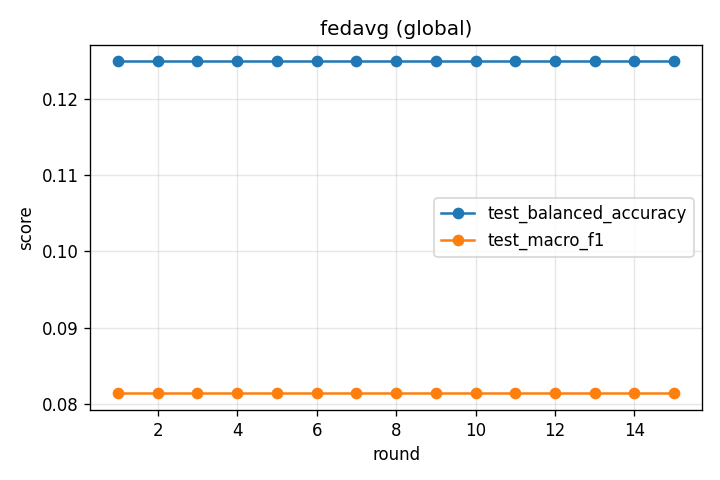
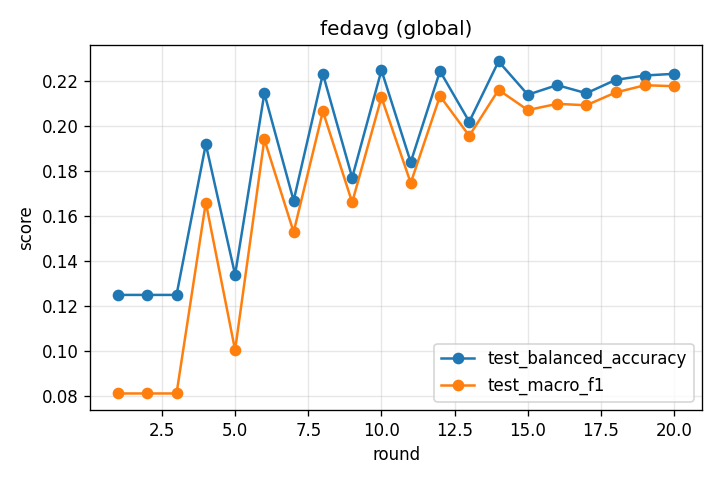
DP: BatchMemoryManager enables large-batch DP-SGD; learns to ~0.22 bal_acc

diff --git a/src/fl_med/engine/client.py b/src/fl_med/engine/client.py
@@ -2,7 +2,9 @@
 
 Decoupled from data acquisition -- it receives an already-built train loader, so
 the same client works with the real dataset, the fixture, or toy tensors in tests.
-Supports an optional local DP-SGD path (Opacus) selected by ``privacy_cfg``.
+Supports an optional local DP-SGD path (Opacus) selected by ``privacy_cfg``, using
+Opacus's BatchMemoryManager so a large logical batch (good signal-to-noise + valid
+accounting) is split into memory-safe physical micro-batches.
 """
 from __future__ import annotations
 
@@ -47,51 +49,59 @@ def local_train(
     criterion=None,
     privacy_cfg: Optional[Dict[str, Any]] = None,
 ) -> Dict[str, Any]:
-    """Train ``model`` locally and return an update dict for the server.
-
-    For SCAFFOLD, pass ``c_global``/``c_local`` (returned dict then also holds the new
-    control variate and (dy, dc) deltas). For DP, pass ``privacy_cfg`` with
-    ``{enabled, noise_multiplier, max_grad_norm}``.
-    """
+    """Train ``model`` locally and return an update dict for the server."""
     model.to(device)
     model.load_state_dict(global_state)
     optimizer = _build_optimizer(model, optimizer_cfg)
 
     dp_enabled = bool(privacy_cfg and privacy_cfg.get("enabled"))
-    grad_clip = GRAD_CLIP_NORM
     if dp_enabled:
         from ..privacy.dp_engine import fix_model, make_private
 
-        model = fix_model(model)                       # ensure DP-compatible norm (GroupNorm)
+        model = fix_model(model)                       # GroupNorm + no in-place ops
         model, optimizer, train_loader, _engine = make_private(
             model=model, optimizer=optimizer, data_loader=train_loader,
             noise_multiplier=float(privacy_cfg["noise_multiplier"]),
             max_grad_norm=float(privacy_cfg["max_grad_norm"]),
         )
-        grad_clip = None                               # Opacus does per-sample clipping
+        max_phys = int(privacy_cfg.get("max_physical_batch_size", 16))
 
     client_state = {"c_global": c_global, "c_local": c_local} if c_global is not None else None
 
+    # Logical optimizer steps per epoch (== accounting steps under Poisson sampling).
+    try:
+        steps_per_epoch = max_batches if max_batches is not None else len(train_loader)
+    except TypeError:
+        steps_per_epoch = max_batches or 1
+
     history = []
-    steps_per_epoch = max_batches if max_batches is not None else len(train_loader)
     for epoch in range(1, local_epochs + 1):
-        m = train_one_epoch(
-            model, train_loader, optimizer, device,
-            criterion=criterion, strategy=strategy, global_model=global_model,
-            client_state=client_state, num_classes=num_classes, max_batches=max_batches,
-            grad_clip=grad_clip,
-        )
+        if dp_enabled:
+            from opacus.utils.batch_memory_manager import BatchMemoryManager
+
+            with BatchMemoryManager(
+                data_loader=train_loader, max_physical_batch_size=max_phys, optimizer=optimizer
+            ) as mem_loader:
+                m = train_one_epoch(
+                    model, mem_loader, optimizer, device, criterion=criterion,
+                    num_classes=num_classes, max_batches=None, grad_clip=None,
+                )
+        else:
+            m = train_one_epoch(
+                model, train_loader, optimizer, device, criterion=criterion,
+                strategy=strategy, global_model=global_model, client_state=client_state,
+                num_classes=num_classes, max_batches=max_batches, grad_clip=GRAD_CLIP_NORM,
+            )
         m["local_epoch"] = epoch
         history.append(m)
 
-    # Under DP the model is an Opacus GradSampleModule; extract the underlying
-    # module so state-dict keys match the global model for aggregation.
+    # Under DP the model is an Opacus GradSampleModule; extract the underlying module
+    # so state-dict keys match the global model for aggregation.
     underlying = getattr(model, "_module", model)
     new_state = clone_state(underlying.state_dict())
-    num_samples = len(train_loader.dataset)
     update: Dict[str, Any] = {
         "client_id": client_id,
-        "num_samples": num_samples,
+        "num_samples": len(train_loader.dataset),
         "state_dict": new_state,
         "local_history": history,
         "dp_steps": local_epochs * int(steps_per_epoch),
@@ -100,7 +110,8 @@ def local_train(
     if c_global is not None and c_local is not None:  # SCAFFOLD bookkeeping
         num_steps = max(1, local_epochs * int(steps_per_epoch))
         new_c_local = scaffold_math.updated_client_control(
-            c_local, c_global, global_state, new_state, num_steps=num_steps, lr=float(optimizer_cfg.get("lr", 1e-3)),
+            c_local, c_global, global_state, new_state,
+            num_steps=num_steps, lr=float(optimizer_cfg.get("lr", 1e-3)),
         )
         deltas = scaffold_math.client_deltas(c_local, new_c_local, global_state, new_state)
         update["c_local"] = new_c_local
